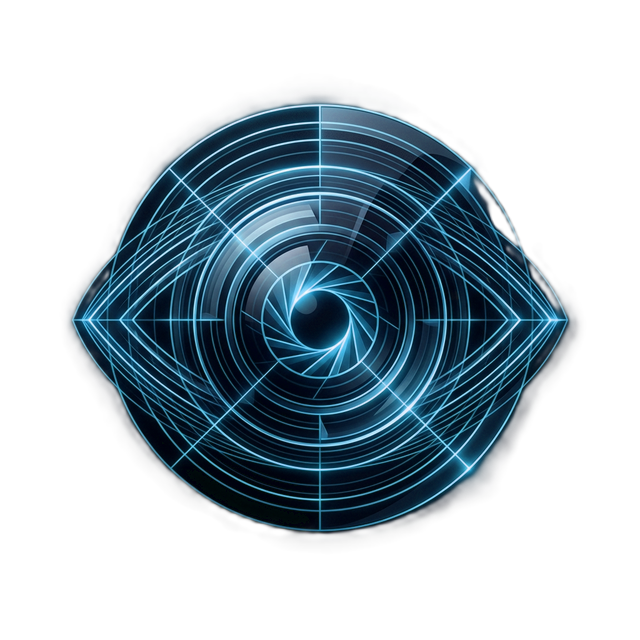
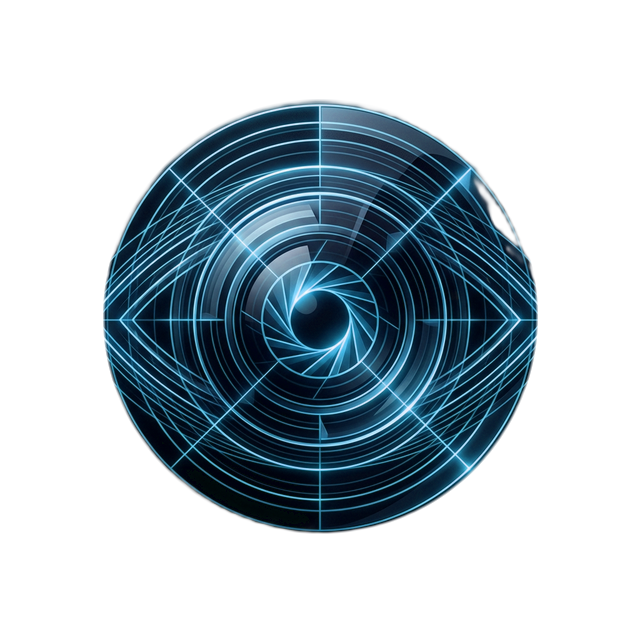
fix(website): eliminate box clipping on hero lens emblem and convert to pristine circular optical optic

diff --git a/apps/website/index.html b/apps/website/index.html
@@ -128,7 +128,7 @@
   }
   .brand-logo-img {
     height: 34px; width: 34px; object-fit: contain;
-    border-radius: 8px;
+    border-radius: 50%;
   }
   .brand-text {
     font-weight: 700;
@@ -304,7 +304,8 @@
     left: 50%;
     transform: translate(-50%, -42%);
     width: clamp(260px, 30vw, 370px);
-    height: auto;
+    aspect-ratio: 1 / 1;
+    border-radius: 50%;
     pointer-events: none;
     z-index: 1;
     display: flex;
@@ -312,30 +313,31 @@
     justify-content: center;
     will-change: transform;
     transition: transform 0.18s cubic-bezier(0.16, 1, 0.3, 1);
-    -webkit-mask-image: linear-gradient(to bottom, rgba(0, 0, 0, 1) 0%, rgba(0, 0, 0, 1) 78%, rgba(0, 0, 0, 0) 100%);
-    mask-image: linear-gradient(to bottom, rgba(0, 0, 0, 1) 0%, rgba(0, 0, 0, 1) 78%, rgba(0, 0, 0, 0) 100%);
+    -webkit-mask-image: radial-gradient(circle at 50% 50%, rgba(0, 0, 0, 1) 68%, rgba(0, 0, 0, 0) 100%);
+    mask-image: radial-gradient(circle at 50% 50%, rgba(0, 0, 0, 1) 68%, rgba(0, 0, 0, 0) 100%);
   }
   .hero-lens-halo {
     position: absolute;
-    inset: -15px;
+    inset: -25px;
     border-radius: 50%;
-    background: radial-gradient(circle, rgba(56, 189, 248, 0.28) 0%, rgba(2, 132, 199, 0.1) 45%, transparent 70%);
-    filter: blur(35px);
+    background: radial-gradient(circle at 50% 50%, rgba(56, 189, 248, 0.35) 0%, rgba(2, 132, 199, 0.14) 48%, transparent 72%);
+    filter: blur(40px);
     pointer-events: none;
     animation: lensHaloPulse 6s ease-in-out infinite alternate;
   }
   @keyframes lensHaloPulse {
-    0% { transform: scale(0.94); opacity: 0.5; }
-    100% { transform: scale(1.08); opacity: 0.85; }
+    0% { transform: scale(0.94); opacity: 0.55; }
+    100% { transform: scale(1.08); opacity: 0.9; }
   }
   .hero-lens-watermark {
     width: 100%;
-    height: auto;
+    height: 100%;
     object-fit: contain;
-    opacity: 0.58;
+    border-radius: 50%;
+    opacity: 0.72;
     filter: 
-      drop-shadow(0 0 24px rgba(56, 189, 248, 0.6)) 
-      drop-shadow(0 0 50px rgba(56, 189, 248, 0.25)) 
+      drop-shadow(0 0 28px rgba(56, 189, 248, 0.6)) 
+      drop-shadow(0 0 56px rgba(2, 132, 199, 0.28)) 
       brightness(1.1) contrast(1.15);
     animation: lensBreathe 6s ease-in-out infinite alternate;
     pointer-events: none;
